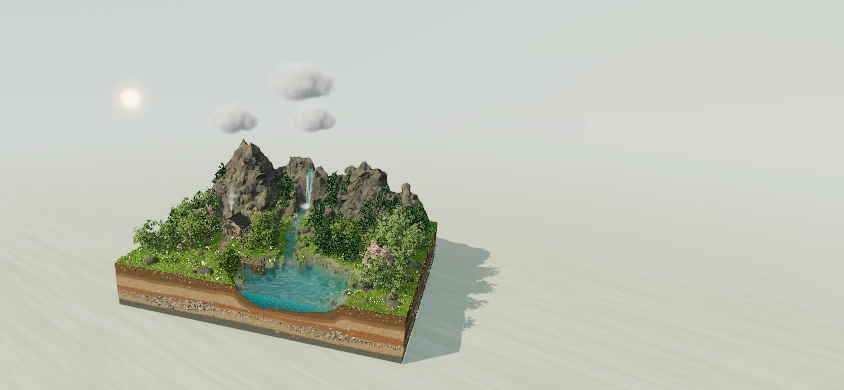
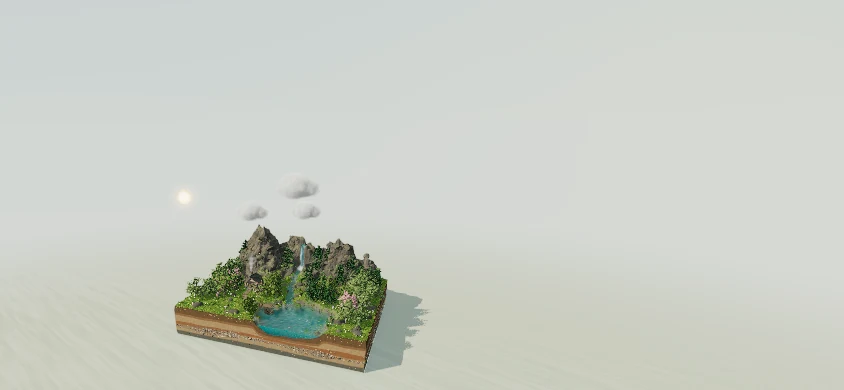
Inset mobile controls and group timing separately

diff --git a/index.html b/index.html
@@ -1,5 +1,5 @@
 <!doctype html>
-<html lang="zh-CN"><head><meta charset="utf-8"><meta name="viewport" content="width=device-width,initial-scale=1,viewport-fit=cover"><meta name="theme-color" content="#dbe5de"><title>世外桃源 · v2.3.13</title><link rel="icon" href="data:,"><link rel="stylesheet" href="./src/style.css?v=2.3.13"><script type="importmap">{"imports":{"three":"./vendor/three/build/three.module.js","three/addons/":"./vendor/three/examples/jsm/","./src/adaptive-rendering.js":"./src/adaptive-rendering.js?v=2.3.13","./src/bark-surface.js":"./src/bark-surface.js?v=2.3.13","./src/bird-flock.js":"./src/bird-flock.js?v=2.3.13","./src/cabin-materials.js":"./src/cabin-materials.js?v=2.3.13","./src/cabin.js":"./src/cabin.js?v=2.3.13","./src/chimney-smoke.js":"./src/chimney-smoke.js?v=2.3.13","./src/cloud-interaction.js":"./src/cloud-interaction.js?v=2.3.13","./src/cloud-optics.js":"./src/cloud-optics.js?v=2.3.13","./src/cutaway-roots.js":"./src/cutaway-roots.js?v=2.3.13","./src/daylight.js":"./src/daylight.js?v=2.3.13","./src/environment-lighting.js":"./src/environment-lighting.js?v=2.3.13","./src/environment.js":"./src/environment.js?v=2.3.13","./src/flow-field.js":"./src/flow-field.js?v=2.3.13","./src/flow-optics.js":"./src/flow-optics.js?v=2.3.13","./src/fog-volumes.js":"./src/fog-volumes.js?v=2.3.13","./src/forest-layout.js":"./src/forest-layout.js?v=2.3.13","./src/fruit-trees.js":"./src/fruit-trees.js?v=2.3.13","./src/ground-contact.js":"./src/ground-contact.js?v=2.3.13","./src/kingfisher-prey.js":"./src/kingfisher-prey.js?v=2.3.13","./src/leaf-canopy.js":"./src/leaf-canopy.js?v=2.3.13","./src/main.js":"./src/main.js?v=2.3.13","./src/meadow-flora.js":"./src/meadow-flora.js?v=2.3.13","./src/meadow-habitat.js":"./src/meadow-habitat.js?v=2.3.13","./src/pond-bed.js":"./src/pond-bed.js?v=2.3.13","./src/pond-caustics.js":"./src/pond-caustics.js?v=2.3.13","./src/pond-fish.js":"./src/pond-fish.js?v=2.3.13","./src/pond-flora.js":"./src/pond-flora.js?v=2.3.13","./src/pond-level.js":"./src/pond-level.js?v=2.3.13","./src/props.js":"./src/props.js?v=2.3.13","./src/rain-impact.js":"./src/rain-impact.js?v=2.3.13","./src/rain-parcels.js":"./src/rain-parcels.js?v=2.3.13","./src/running-water.js":"./src/running-water.js?v=2.3.13","./src/scene-audio.js":"./src/scene-audio.js?v=2.3.13","./src/scene-backdrop.js":"./src/scene-backdrop.js?v=2.3.13","./src/scene-birds.js":"./src/scene-birds.js?v=2.3.13","./src/scene-butterflies.js":"./src/scene-butterflies.js?v=2.3.13","./src/scene-fauna.js":"./src/scene-fauna.js?v=2.3.13","./src/scene-state.js":"./src/scene-state.js?v=2.3.13","./src/seasonal-phenology.js":"./src/seasonal-phenology.js?v=2.3.13","./src/shared-opaque-pass.js":"./src/shared-opaque-pass.js?v=2.3.13","./src/soil-section.js":"./src/soil-section.js?v=2.3.13","./src/streamside-vegetation.js":"./src/streamside-vegetation.js?v=2.3.13","./src/terrain-field.js":"./src/terrain-field.js?v=2.3.13","./src/terrain-materials.js":"./src/terrain-materials.js?v=2.3.13","./src/terrain.js":"./src/terrain.js?v=2.3.13","./src/tree-growth.js":"./src/tree-growth.js?v=2.3.13","./src/tree-motion.js":"./src/tree-motion.js?v=2.3.13","./src/tree-skeleton.js":"./src/tree-skeleton.js?v=2.3.13","./src/vegetation-palette.js":"./src/vegetation-palette.js?v=2.3.13","./src/vegetation-wind.js":"./src/vegetation-wind.js?v=2.3.13","./src/vegetation.js":"./src/vegetation.js?v=2.3.13","./src/water-impact-vfx.js":"./src/water-impact-vfx.js?v=2.3.13","./src/water-surface.js":"./src/water-surface.js?v=2.3.13","./src/water-touch.js":"./src/water-touch.js?v=2.3.13","./src/water.js":"./src/water.js?v=2.3.13","./src/weather.js":"./src/weather.js?v=2.3.13","./src/wetland-plants.js":"./src/wetland-plants.js?v=2.3.13","./src/wetland-relief.js":"./src/wetland-relief.js?v=2.3.13","./src/woodland-layout.js":"./src/woodland-layout.js?v=2.3.13","./assets/butterfly-cc0/data.js":"./assets/butterfly-cc0/data.js?v=2.3.13"}}</script></head>
+<html lang="zh-CN"><head><meta charset="utf-8"><meta name="viewport" content="width=device-width,initial-scale=1,viewport-fit=cover"><meta name="theme-color" content="#dbe5de"><title>世外桃源 · v2.3.14</title><link rel="icon" href="data:,"><link rel="stylesheet" href="./src/style.css?v=2.3.14"><script type="importmap">{"imports":{"three":"./vendor/three/build/three.module.js","three/addons/":"./vendor/three/examples/jsm/","./src/adaptive-rendering.js":"./src/adaptive-rendering.js?v=2.3.14","./src/bark-surface.js":"./src/bark-surface.js?v=2.3.14","./src/bird-flock.js":"./src/bird-flock.js?v=2.3.14","./src/cabin-materials.js":"./src/cabin-materials.js?v=2.3.14","./src/cabin.js":"./src/cabin.js?v=2.3.14","./src/chimney-smoke.js":"./src/chimney-smoke.js?v=2.3.14","./src/cloud-interaction.js":"./src/cloud-interaction.js?v=2.3.14","./src/cloud-optics.js":"./src/cloud-optics.js?v=2.3.14","./src/cutaway-roots.js":"./src/cutaway-roots.js?v=2.3.14","./src/daylight.js":"./src/daylight.js?v=2.3.14","./src/environment-lighting.js":"./src/environment-lighting.js?v=2.3.14","./src/environment.js":"./src/environment.js?v=2.3.14","./src/flow-field.js":"./src/flow-field.js?v=2.3.14","./src/flow-optics.js":"./src/flow-optics.js?v=2.3.14","./src/fog-volumes.js":"./src/fog-volumes.js?v=2.3.14","./src/forest-layout.js":"./src/forest-layout.js?v=2.3.14","./src/fruit-trees.js":"./src/fruit-trees.js?v=2.3.14","./src/ground-contact.js":"./src/ground-contact.js?v=2.3.14","./src/kingfisher-prey.js":"./src/kingfisher-prey.js?v=2.3.14","./src/leaf-canopy.js":"./src/leaf-canopy.js?v=2.3.14","./src/main.js":"./src/main.js?v=2.3.14","./src/meadow-flora.js":"./src/meadow-flora.js?v=2.3.14","./src/meadow-habitat.js":"./src/meadow-habitat.js?v=2.3.14","./src/pond-bed.js":"./src/pond-bed.js?v=2.3.14","./src/pond-caustics.js":"./src/pond-caustics.js?v=2.3.14","./src/pond-fish.js":"./src/pond-fish.js?v=2.3.14","./src/pond-flora.js":"./src/pond-flora.js?v=2.3.14","./src/pond-level.js":"./src/pond-level.js?v=2.3.14","./src/props.js":"./src/props.js?v=2.3.14","./src/rain-impact.js":"./src/rain-impact.js?v=2.3.14","./src/rain-parcels.js":"./src/rain-parcels.js?v=2.3.14","./src/running-water.js":"./src/running-water.js?v=2.3.14","./src/scene-audio.js":"./src/scene-audio.js?v=2.3.14","./src/scene-backdrop.js":"./src/scene-backdrop.js?v=2.3.14","./src/scene-birds.js":"./src/scene-birds.js?v=2.3.14","./src/scene-butterflies.js":"./src/scene-butterflies.js?v=2.3.14","./src/scene-fauna.js":"./src/scene-fauna.js?v=2.3.14","./src/scene-state.js":"./src/scene-state.js?v=2.3.14","./src/seasonal-phenology.js":"./src/seasonal-phenology.js?v=2.3.14","./src/shared-opaque-pass.js":"./src/shared-opaque-pass.js?v=2.3.14","./src/soil-section.js":"./src/soil-section.js?v=2.3.14","./src/streamside-vegetation.js":"./src/streamside-vegetation.js?v=2.3.14","./src/terrain-field.js":"./src/terrain-field.js?v=2.3.14","./src/terrain-materials.js":"./src/terrain-materials.js?v=2.3.14","./src/terrain.js":"./src/terrain.js?v=2.3.14","./src/tree-growth.js":"./src/tree-growth.js?v=2.3.14","./src/tree-motion.js":"./src/tree-motion.js?v=2.3.14","./src/tree-skeleton.js":"./src/tree-skeleton.js?v=2.3.14","./src/vegetation-palette.js":"./src/vegetation-palette.js?v=2.3.14","./src/vegetation-wind.js":"./src/vegetation-wind.js?v=2.3.14","./src/vegetation.js":"./src/vegetation.js?v=2.3.14","./src/water-impact-vfx.js":"./src/water-impact-vfx.js?v=2.3.14","./src/water-surface.js":"./src/water-surface.js?v=2.3.14","./src/water-touch.js":"./src/water-touch.js?v=2.3.14","./src/water.js":"./src/water.js?v=2.3.14","./src/weather.js":"./src/weather.js?v=2.3.14","./src/wetland-plants.js":"./src/wetland-plants.js?v=2.3.14","./src/wetland-relief.js":"./src/wetland-relief.js?v=2.3.14","./src/woodland-layout.js":"./src/woodland-layout.js?v=2.3.14","./assets/butterfly-cc0/data.js":"./assets/butterfly-cc0/data.js?v=2.3.14"}}</script></head>
 <body>
  <main id="world" aria-label="可交互的三维微缩景观"></main>
  <div class="scene-header">
@@ -49,5 +49,5 @@
  </aside>
  </div>
  <div id="failure" class="hidden" role="alert"></div>
- <script type="module" src="./src/main.js?v=2.3.13"></script>
+ <script type="module" src="./src/main.js?v=2.3.14"></script>
 </body></html>

diff --git a/src/style.css b/src/style.css
@@ -365,6 +365,8 @@ body.ui-hidden .ui * { pointer-events: none !important; }
   .top-actions { top: 19px; gap: 17px; }
   .icon-button, .sound-toggle { font-size: 10px; }
   .top-actions svg { width: 18px; height: 18px; }
+  .top-actions #capture { flex-direction: column; gap: 2px; }
+  .top-actions #capture > span { display: block; font-size: 9px; }
   .side-left, .side-right { top: 90px; bottom: 16px; gap: 18px; display: flex; flex-direction: column; }
   .side-left { width: 174px; }
   .side-right { width: 151px; bottom: auto; gap: 16px; }
@@ -442,31 +444,49 @@ body.night-scene .quality-control select { color-scheme:dark; }
   :root {
     --phone-left: max(12px, env(safe-area-inset-left, 0px));
     --phone-right: max(12px, env(safe-area-inset-right, 0px));
-    --phone-top: env(safe-area-inset-top, 0px);
-    --phone-bottom: env(safe-area-inset-bottom, 0px);
+    --phone-top: calc(52px + env(safe-area-inset-top, 0px));
+    --phone-bottom: calc(52px + env(safe-area-inset-bottom, 0px));
+    --phone-title-height: 36px;
+    --phone-tools-top: calc(var(--phone-top) + var(--phone-title-height));
+    --phone-side-width: min(184px, calc(50vw - max(var(--phone-left), var(--phone-right)) - 4px));
   }
-  #world { background-image: url("../assets/opening-portrait.webp?v=2.3.13"); }
+  #world { background-image: url("../assets/opening-portrait.webp?v=2.3.14"); }
   #world.scene-ready { background: none; }
   .scene-header {
     position: fixed;
     z-index: 3;
     inset: var(--phone-top) var(--phone-right) auto var(--phone-left);
     display: grid;
-    grid-template-rows: 56px 42px;
+    grid-template-rows: var(--phone-title-height) 84px;
     align-items: center;
     pointer-events: none;
   }
   .masthead, .top-actions { position: static; }
+  .masthead { justify-self: center; }
   .masthead h1 { font-size: clamp(24px, 6.2vw, 31px); }
-  .top-actions { justify-content: space-between; gap: 0; }
+  .top-actions {
+    display: grid;
+    grid-template-columns: repeat(4, minmax(0, 1fr));
+    grid-auto-rows: 42px;
+    justify-self: end;
+    width: var(--phone-side-width);
+    gap: 0;
+  }
+  .top-actions .sound-controls, .top-actions .quality-control {
+    grid-column: span 2;
+    justify-content: center;
+  }
   .top-actions .icon-button, .sound-toggle {
     justify-content: center;
-    width: 40px;
+    width: 100%;
     height: 42px;
   }
   .top-actions button > span { display: none; }
   .top-actions svg { width: 18px; height: 18px; }
+  .top-actions #capture { flex-direction: column; gap: 2px; }
+  .top-actions #capture > span { display: block; font-size: 9px; }
   .sound-controls { gap: 2px; }
+  .sound-toggle { width: 33px; }
   .sound-controls input { width: 30px; }
   .quality-control { font-size: 12px; }
   .quality-control select { min-height: 42px; }
@@ -475,7 +495,7 @@ body.night-scene .quality-control select { color-scheme:dark; }
   .control-dock {
     position: fixed;
     z-index: 3;
-    inset: auto var(--phone-right) calc(var(--phone-bottom) + 8px) var(--phone-left);
+    inset: auto var(--phone-right) var(--phone-bottom) var(--phone-left);
     display: grid;
     row-gap: 1px;
     pointer-events: none;
@@ -488,12 +508,6 @@ body.night-scene .quality-control select { color-scheme:dark; }
   .scene-header button:focus-visible, .scene-header input:focus-visible {
     outline-offset: -2px;
   }
-  .season-rail {
-    display: grid;
-    align-items: center;
-    grid-template-columns: minmax(0, 1fr) 92px;
-    gap: 4px;
-  }
   .season-tabs { display: grid; grid-template-columns: repeat(4, minmax(0, 1fr)); gap: 0; }
   .season-tabs button {
     display: grid;
@@ -505,17 +519,25 @@ body.night-scene .quality-control select { color-scheme:dark; }
   }
   .season-tabs button > span { font-size: clamp(22px, 5.5vw, 29px); }
   .season-tabs button.active::after { left: calc(50% - 9px); width: 18px; height: 2px; bottom: 4px; }
-  .season-cycle { display: grid; align-content: center; width: auto; min-width: 0; margin: 0; }
+  .season-cycle {
+    position: fixed;
+    top: calc(var(--phone-tools-top) + 42px);
+    left: var(--phone-left);
+    display: grid;
+    align-content: center;
+    width: min(112px, var(--phone-side-width));
+    margin: 0;
+  }
   .cycle-button { min-height: 30px; gap: 3px; letter-spacing: 0; font-size: 10px; }
   #cycle-status { margin: -2px 0 2px; font-size: 8px; overflow: hidden; text-overflow: ellipsis; }
   #cycle-progress { height: 2px; }
 
   .day-panel {
     position: fixed;
-    top: calc(var(--phone-top) + 5px);
-    right: var(--phone-right);
+    top: var(--phone-tools-top);
+    left: var(--phone-left);
     z-index: 4;
-    width: clamp(148px, 39vw, 182px);
+    width: var(--phone-side-width);
     display: grid;
     grid-template-columns: auto minmax(0, 1fr);
     align-items: center;
@@ -523,7 +545,7 @@ body.night-scene .quality-control select { color-scheme:dark; }
   }
   #clock-label { font-size: 21px; letter-spacing: -.6px; }
   .day-control { gap: 2px; margin: 0; }
-  .day-control button { width: 30px; height: 44px; }
+  .day-control button { width: 30px; height: 42px; }
   .day-control input { flex: 1; width: 0; min-width: 0; }
   .day-control input[type="range"], .sound-controls input[type="range"] { height: 32px; background: transparent; }
   .sound-controls input::-webkit-slider-thumb { margin-top: -2.5px; }
@@ -567,23 +589,20 @@ body.night-scene .quality-control select { color-scheme:dark; }
 }
 
 @media (max-width: 1000px) and (max-height: 560px) and (orientation: landscape) {
-  :root { --phone-rail: clamp(170px, 30vw, 272px); }
-  #world { background-image: url("../assets/opening-phone-landscape.webp?v=2.3.13"); }
-  .scene-header {
-    right: calc(var(--phone-right) + var(--phone-rail));
-    grid-template: 48px / auto minmax(0, 1fr);
-    column-gap: 5px;
+  :root { --phone-rail: clamp(210px, 30vw, 272px); }
+  #world { background-image: url("../assets/opening-phone-landscape.webp?v=2.3.14"); }
+  .scene-header { grid-template-rows: var(--phone-title-height) 76px; }
+  .masthead h1 { font-size: clamp(20px, 3vw, 27px); }
+  .top-actions {
+    display: flex;
+    align-self: start;
+    justify-content: flex-end;
+    width: auto;
   }
-  .masthead h1 { font-size: clamp(18px, 3vw, 26px); }
-  .top-actions { justify-content: flex-end; }
-  .top-actions .icon-button, .sound-toggle { width: clamp(27px, 4.5vw, 40px); }
+  .top-actions .icon-button, .sound-toggle { width: clamp(28px, 4.3vw, 40px); }
   .control-dock {
-    inset: calc(var(--phone-top) + 49px) var(--phone-right) var(--phone-bottom) auto;
+    inset: calc(var(--phone-tools-top) + 42px) var(--phone-right) var(--phone-bottom) auto;
     width: var(--phone-rail);
-    align-content: center;
-    row-gap: 5px;
+    align-content: end;
   }
-  .interaction-rail { grid-template-columns: minmax(0, 3fr) minmax(0, 1fr); }
-  .tools { grid-template-columns: repeat(3, minmax(0, 1fr)); }
-  .wind-toggle { align-self: center; }
 }

diff --git a/src/main.js b/src/main.js
@@ -175,6 +175,12 @@ $$('[data-weather]').forEach(b=>b.onclick=()=>setWeather(b.dataset.weather,!weat
 $('#reset').onclick=resetView;$('#wind-toggle').onclick=()=>setWindPaused(!state.windPaused);$('#reset-effects').onclick=resetEffects;$('#capture').onclick=()=>{renderScene();const a=document.createElement('a');a.download='世外桃源.png';a.href=renderer.domElement.toDataURL();a.click();};
 const fullscreenButton = $('#fullscreen');
 fullscreenButton.hidden = !document.fullscreenEnabled;
+document.addEventListener('fullscreenchange', () => {
+  const label = document.fullscreenElement ? '退出全屏' : '全屏';
+  fullscreenButton.setAttribute('aria-label', label);
+  fullscreenButton.title = label;
+  fullscreenButton.querySelector('span').textContent = label;
+});
 fullscreenButton.onclick = async () => {
   try {
     if (document.fullscreenElement) await document.exitFullscreen();
@@ -202,7 +208,7 @@ function resize() {
   const header = $('.scene-header').getBoundingClientRect();
   const dock = $('.control-dock').getBoundingClientRect();
   // Reserve composition space for the controls while drawing the scene edge to edge.
-  const sideDock = dock.width > 0 && dock.left > width * .5;
+  const sideDock = dock.width > 0 && dock.left > header.left + 1;
   const top = header.bottom;
   const right = sideDock ? dock.left : width;
   const bottom = dock.width > 0 && !sideDock ? dock.top : height;

diff --git a/README.md b/README.md
@@ -4,12 +4,12 @@
 
 **[在线试玩](https://1364479497-crypto.github.io/microcosm-landscape/)**
 
-当前版本 **2.3.13**，使用本地随站提供的 **Three.js 0.187.0 / r187**。无需 API 密钥或后端服务。
+当前版本 **2.3.14**，使用本地随站提供的 **Three.js 0.187.0 / r187**。无需 API 密钥或后端服务。
 
 ## 操作
 
 - 拖动空白处旋转，滚轮或双指缩放；拖动太阳/月亮改变时间。
-- 手机上方可直接调时间，竖屏底部或横屏右侧可直接选择季节、天气和互动。桌面左右栏分别提供季节与时间、天气与互动。
+- 手机左上方调时间和季节流转，右上方提供声音、画质和截图等工具。竖屏下方或横屏右侧可直接选择季节、天气和互动。
 - 抓住云层可产生局部降雨，点击池水可激起涟漪。
 - 顶栏可选择自动、清晰、流畅或录制画质，并控制声音、截图和复位。
 
